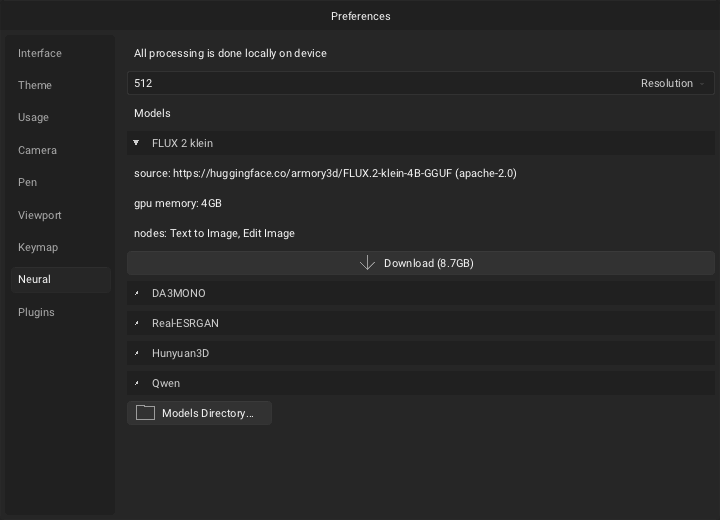
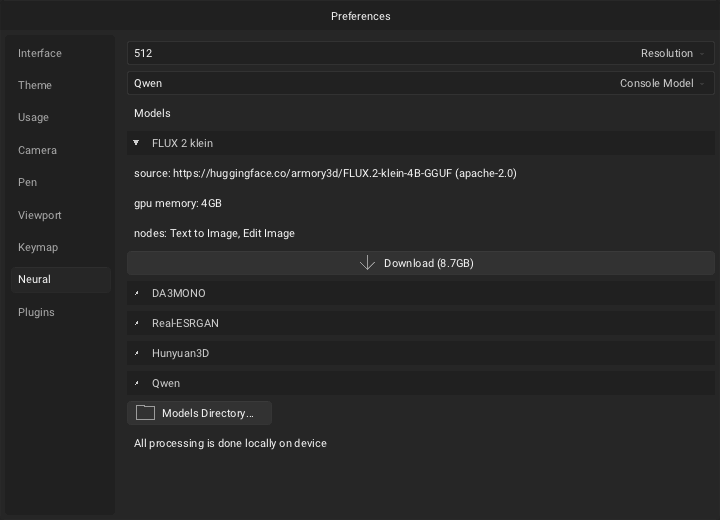
sync

diff --git a/manual.html b/manual.html
@@ -314,7 +314,7 @@
   <p>See <a href="https://armorpaint.org/manual#preferences">Preferences</a> to tune performance.</p>
 </blockquote>
 <h4 id="updating">Updating</h4>
-<p>Latest builds can be downloaded through your <a href="https://itch.io/my-purchases">Itch Library</a> or <a href="https://gumroad.com/library">Gumroad Library</a>. Learn more <a href="https://armorpaint.org/login">here</a>.</p>
+<p>Latest builds can be downloaded through your <a href="https://itch.io/my-purchases">Itch Library</a>. Learn more <a href="https://armorpaint.org/login">here</a>.</p>
 <blockquote>
   <p>In ArmorPaint, press <code>Help - Check for Updates...</code> to check if newer build is available.</p>
 </blockquote>
@@ -340,6 +340,7 @@
 <li>Controls can be customized in <code>Menu bar - Edit - Preferences... - Keymap</code>.</li>
 <li>Default or Blender keymap preset can be selected.</li>
 <li>Keymap presets can be imported and exported.</li>
+<li>Hold <code>shift</code> + <code>right mouse button</code> to rotate the camera horizontally.</li>
 </ul>
 <p><br/><br/><br/><br/><br/></p>
 <h1 id="basics">Basics</h1>
@@ -349,13 +350,16 @@
 <p>In the <code>Import Mesh</code> dialog:</p>
 <ul>
 <li>Set <code>Split By</code> combo to <code>UDIM Tile</code> to parse imported <code>.obj</code> mesh into UDIM tiles.</li>
+<li>Set <code>Split By</code> combo to <code>Material</code> to create separate mesh for each material in the <code>.obj</code> file.</li>
 <li>Enable <code>Apply Skinning</code> to load and apply animation frame from <code>.fbx</code> or <code>.glb</code> file.</li>
+<li>Press <code>&gt; - Append</code> button to keep the existing meshes in the project intact.</li>
 </ul>
 <p>Modifying imported mesh data:</p>
 <ul>
 <li>Normals can be re-calculated with <code>Meshes tab - Edit - Calculate Normals</code>.</li>
 <li>Up axis can be set with <code>Meshes tab - Edit - Rotate</code>.</li>
 <li>Geometry can be re-centered with <code>Meshes tab - Edit - Geometry to Origin</code>.</li>
+<li>All meshes can be merged into a single one with <code>Meshes tab - Edit - Merge Geometry</code>.</li>
 <li>Height output can be applied to geometry with <code>Meshes tab - Edit - Apply Displacement</code>.</li>
 <li>UV map can be auto-generated with <code>Meshes tab - Edit - UV Unwrap</code>.</li>
 <li>Keep in mind that if you modify UV map of the imported mesh, you will have to also <a href="https://armorpaint.org/manual#export-mesh">export the modified mesh</a> back out of ArmorPaint alongside the painted textures so they can be UV mapped properly.</li>
@@ -423,7 +427,8 @@
 <ul>
 <li>Click on the <code>Cloud</code> button to access the <a href="https://armorpaint.org/cloud">ArmorPaint cloud</a>.</li>
 <li>Drag assets from browser into the viewport to import.</li>
-<li>For <code>.arm</code> materials, preview icons are displayed.</li>
+<li>For <code>.arm</code> files - right click and press the <code>Append</code> button to select which meshes and materials to import.</li>
+<li>For <code>.arm</code> materials - preview icons are displayed.</li>
 <li>Click on the <code>+</code> button to save the current path into bookmarks panel.</li>
 <li>Press <code>ctrl+f</code> keys to activate search in the current folder.</li>
 <li>Use arrow keys, enter / backspace to navigate.
@@ -508,6 +513,7 @@
 <li><code>Blending</code>: Blending mode used for painting.</li>
 <li><code>X-Ray</code>: Paint through mesh faces.</li>
 <li><code>Symmetry</code>: Mirror brush strokes on the X, Y and/or Z axis.</li>
+<li><code>Set Source</code> button: Set clone source location without holding the <code>ALT</code> key.</li>
 </ul>
 <h4 id="blur">Blur</h4>
 <p><img src="img/manual/tool_blur.png" alt="" /></p>
@@ -554,6 +560,9 @@
 <h4 id="cursor">Cursor</h4>
 <p><img src="img/manual/tool_cursor.png" alt="" /></p>
 <p>Select <code>Cursor</code>(<code>r</code>) tool from toolbar. A gizmo will appear in the viewport allowing you to adjust the transform of objects in the scene. Location, rotation and scale will be displayed in the header.</p>
+<ul>
+<li>Hold <code>x</code> (<code>grid_snap</code>) key to snap gizmo movement and rotation to steps.</li>
+</ul>
 <h4 id="select">Select</h4>
 <p><img src="img/manual/tool_select.png" alt="" /></p>
 <p>Select <code>Select</code>(<code>m</code>) tool from toolbar. Press <code>left mouse button</code> / <code>pen</code> to draw a rectangular mask in the viewport. The painting operations will now be restricted to this area. Press <code>Clear</code> button to discard the mask.</p>
@@ -622,6 +631,11 @@
 <p><img src="img/manual/neural/001.png" alt="" /></p>
 <p>To preview the material, create a new project and select the highly tessellated <code>plane_2048</code> or <code>sphere_2048</code> template. Fill the material onto the layer and press <code>Meshes tab - Edit - Apply Displacement</code> to apply height channel onto the mesh.</p>
 <p><img src="img/manual/neural/002.jpg" alt="" /></p>
+<h4 id="consolemodel">Console Model</h4>
+<p>Navigate to the <code>Menu bar - Edit - Preferences... - Neural</code> tab and pick the desired <code>console model</code>. By default, <code>Qwen</code> model will be selected which needs to be downloaded via <code>Models - Qwen</code> section. In this case the console prompt will be processed locally. If your machine does not have enough memory, you can change the <code>console model</code> to claude, grok or codex. Note that in this case processing will be done in the cloud and you need to have access to these models set up on your computer.</p>
+<blockquote>
+  <p>See <a href="https://armorpaint.org/manual#scripting">Console Prompt</a>.</p>
+</blockquote>
 <p><br/><br/><br/><br/><br/></p>
 <h1 id="brushes">Brushes</h1>
 <p><img src="img/manual/k.jpg" alt="" /></p>
@@ -721,6 +735,12 @@
 <li><code>Apply</code> mask to parent layer.</li>
 <li><code>Delete</code> the mask.</li>
 <li><code>Invert</code> the mask.</li>
+</ul>
+<p>For path layers:</p>
+<ul>
+<li>Press <code>left</code> mouse button onto a mesh to add a new control point.</li>
+<li>Press and hold <code>left</code> mouse button to drag a control point.</li>
+<li>Press <code>delete</code> key to remove the last selected control point.</li>
 </ul>
 <blockquote>
   <p>Drag textures from <code>Textures tab</code> into the viewport or <code>Layers</code> tab to create mask for active layer.</p>
@@ -864,7 +884,8 @@
 <p><em>work-in-progress</em></p>
 <p><br/><br/><br/><br/><br/></p>
 <h1 id="scripting">Scripting</h1>
-<p><img src="img/manual/h.jpg" alt="" /></p>
+<p><img src="img/manual/script.jpg" alt="" /></p>
+<h4 id="plugins">Plugins</h4>
 <p>Press <code>Plugins tab - Manager</code> to open the plugin manager.</p>
 <ul>
 <li>Click <code>Import</code> to install a new plugin from <code>.c</code> or <code>.zip</code> file.</li>
@@ -877,6 +898,17 @@
 <li>Controls for enabled plugins are displayed in the <code>Plugins tab</code>.</li>
 <li>Some plugins may not expose controls but add new import / export file formats.</li>
 </ul>
+<h4 id="scriptstab">Scripts Tab</h4>
+<p>Scripts tab allows you to edit and run scripts directly in ArmorPaint. It supports basic code editing, mini map display and syntax coloring.</p>
+<ul>
+<li>Press <code>ctrl + f</code> to search.</li>
+<li>Press <code>ctrl + space</code> to open auto-complete.</li>
+</ul>
+<h4 id="consoleprompt">Console Prompt</h4>
+<p>Once <code>console model</code> is set up, navigate to the <code>Console</code> tab, enter the text prompt and click the <code>Run</code> button. Once done, a script will be generated in the <code>Scripts</code> tab. You can inspect the script and press the <code>Run</code> button to execute it.</p>
+<blockquote>
+  <p>See <a href="https://armorpaint.org/manual#neural-nodes">Console Model</a> setup.</p>
+</blockquote>
 <h4 id="livelink">Live-Link</h4>
 <p>Live-link plugins are currently in development:</p>
 <ul>
@@ -895,6 +927,23 @@
 </ul>
 <p><br/><a href="img/manual/skin.jpg" target="_blank"><img src="img/manual/skin.jpg" width="300px"/></a>
 <br/><i>skinned mesh</i></p>
+<h4 id="commandlineterminal">Command line / terminal</h4>
+<p>Control ArmorPaint via the command line arguments.</p>
+<pre><code>Usage: armorpaint [options] [file]
+Options:
+  --background                      Run without displaying the window
+  --export-textures &lt;type&gt; &lt;preset&gt; &lt;path&gt;
+                                    Export textures to path
+                                    type: png, jpg, exr16, exr32
+  --export-mesh &lt;path&gt;              Export mesh to path
+  --export-material &lt;path&gt;          Export material to path
+  --reload-mesh                     Reimport mesh on startup
+  --script &lt;path&gt;                   Run script on the opened project
+  --api                             Print the scripting API reference
+                                    Contents of the opened project are included
+  --player                          Run in player mode
+  --help                            Show this help message
+</code></pre>
 <p><br/><br/><br/><br/><br/></p>
 <h1 id="preferences">Preferences</h1>
 <p><img src="img/manual/g.jpg" alt="" /></p>
@@ -970,13 +1019,15 @@
 </ul>
 <p>On slower GPUs:</p>
 <ul>
-<li>Disable <code>SSAO (screen-space ambient occlusion)</code> for improved performance.</li>
+<li>Set <code>SSAO (screen-space ambient occlusion)</code> to <code>0.0</code> to fully disable it for improved performance.</li>
 </ul>
 <p>Additional options:</p>
 <ul>
-<li>Set <code>Path Tracer</code> mode: <code>Fast</code> for performance, <code>Full</code> for features. (raytracing GPUs)</li>
+<li>Set <code>Path Tracer</code> mode: <code>Fast</code> for performance, <code>Quality</code> for features. (emission, translucency)(raytracing GPUs)</li>
+<li>Set <code>Multi</code> variant in <code>Path Tracer</code> mode combo: this allows  the path tracer to render up to 1024 instances of 64 unique objects.</li>
+<li>Set <code>Path Trace Frames</code>: the number of frames to accumulate samples.</li>
 <li>Set clipping values with <code>Clip Start</code> and <code>Clip End</code>.</li>
-<li>Enable <code>Bloom</code>.</li>
+<li>Set <code>Bloom</code> strenght, <code>0.0</code> to fully disable.</li>
 <li>Set <code>Vignette</code> intensity.</li>
 <li>Set <code>Noise Grain</code> intensity.</li>
 <li>Set <code>Displacement Strength</code> applied by height channel in the viewport.</li>

diff --git a/manual.md b/manual.md
@@ -22,7 +22,7 @@ Painting process in ArmorPaint runs on the GPU and the performance mainly depend
 
 #### Updating
 
-Latest builds can be downloaded through your [Itch Library](https://itch.io/my-purchases) or [Gumroad Library](https://gumroad.com/library). Learn more [here](https://armorpaint.org/login).
+Latest builds can be downloaded through your [Itch Library](https://itch.io/my-purchases). Learn more [here](https://armorpaint.org/login).
 
 > In ArmorPaint, press `Help - Check for Updates...` to check if newer build is available.
 
@@ -65,6 +65,7 @@ Unpack downloaded archive and run `ArmorPaint.app`.
 - Controls can be customized in `Menu bar - Edit - Preferences... - Keymap`.
 - Default or Blender keymap preset can be selected.
 - Keymap presets can be imported and exported.
+- Hold `shift` + `right mouse button` to rotate the camera horizontally.
 
 <br/><br/><br/><br/><br/>
 
@@ -82,12 +83,15 @@ Drag and drop unwrapped `.obj` file into the viewport. This will replace the cur
 
 In the `Import Mesh` dialog:
 - Set `Split By` combo to `UDIM Tile` to parse imported `.obj` mesh into UDIM tiles.
+- Set `Split By` combo to `Material` to create separate mesh for each material in the `.obj` file.
 - Enable `Apply Skinning` to load and apply animation frame from `.fbx` or `.glb` file.
+- Press `> - Append` button to keep the existing meshes in the project intact.
 
 Modifying imported mesh data:
 - Normals can be re-calculated with `Meshes tab - Edit - Calculate Normals`.
 - Up axis can be set with `Meshes tab - Edit - Rotate`.
 - Geometry can be re-centered with `Meshes tab - Edit - Geometry to Origin`.
+- All meshes can be merged into a single one with `Meshes tab - Edit - Merge Geometry`.
 - Height output can be applied to geometry with `Meshes tab - Edit - Apply Displacement`.
 - UV map can be auto-generated with `Meshes tab - Edit - UV Unwrap`.
 - Keep in mind that if you modify UV map of the imported mesh, you will have to also [export the modified mesh](https://armorpaint.org/manual#export-mesh) back out of ArmorPaint alongside the painted textures so they can be UV mapped properly.
@@ -166,7 +170,8 @@ If the mesh file was modified after it was already imported in ArmorPaint, you c
 Click on the `Status bar - Browser tab` to activate the built-in asset browser.
 - Click on the `Cloud` button to access the [ArmorPaint cloud](https://armorpaint.org/cloud).
 - Drag assets from browser into the viewport to import.
-- For `.arm` materials, preview icons are displayed.
+- For `.arm` files - right click and press the `Append` button to select which meshes and materials to import.
+- For `.arm` materials - preview icons are displayed.
 - Click on the `+` button to save the current path into bookmarks panel.
 - Press `ctrl+f` keys to activate search in the current folder.
 - Use arrow keys, enter / backspace to navigate.
@@ -271,6 +276,7 @@ Select `Clone`(`L`) tool from toolbar. Hold `ALT` to set clone source location. 
 - `Blending`: Blending mode used for painting.
 - `X-Ray`: Paint through mesh faces.
 - `Symmetry`: Mirror brush strokes on the X, Y and/or Z axis.
+- `Set Source` button: Set clone source location without holding the `ALT` key.
 
 #### Blur
 
@@ -330,6 +336,8 @@ Select `Material` tool from toolbar. A live material preview will be displayed i
 ![](img/manual/tool_cursor.png)
 
 Select `Cursor`(`r`) tool from toolbar. A gizmo will appear in the viewport allowing you to adjust the transform of objects in the scene. Location, rotation and scale will be displayed in the header.
+
+- Hold `x` (`grid_snap`) key to snap gizmo movement and rotation to steps.
 
 #### Select
 
@@ -450,6 +458,12 @@ To preview the material, create a new project and select the highly tessellated 
 
 ![](img/manual/neural/002.jpg)
 
+#### Console Model
+
+Navigate to the `Menu bar - Edit - Preferences... - Neural` tab and pick the desired `console model`. By default, `Qwen` model will be selected which needs to be downloaded via `Models - Qwen` section. In this case the console prompt will be processed locally. If your machine does not have enough memory, you can change the `console model` to claude, grok or codex. Note that in this case processing will be done in the cloud and you need to have access to these models set up on your computer.
+
+> See [Console Prompt](https://armorpaint.org/manual#scripting).
+
 <br/><br/><br/><br/><br/>
 
 
@@ -561,6 +575,12 @@ Right-click on the mask to expose mask operations:
 - `Apply` mask to parent layer.
 - `Delete` the mask.
 - `Invert` the mask.
+
+For path layers:
+
+- Press `left` mouse button onto a mesh to add a new control point.
+- Press and hold `left` mouse button to drag a control point.
+- Press `delete` key to remove the last selected control point.
 
 > Drag textures from `Textures tab` into the viewport or `Layers` tab to create mask for active layer.
 
@@ -773,7 +793,9 @@ Press `Menu bar - Workspace - Workflow - Sculpt` to enter sculpt mode.
 
 # Scripting
 
-![](img/manual/h.jpg)
+![](img/manual/script.jpg)
+
+#### Plugins
 
 Press `Plugins tab - Manager` to open the plugin manager.
 
@@ -786,6 +808,19 @@ Press `Plugins tab - Manager` to open the plugin manager.
   - `Delete` plugin.
 - Controls for enabled plugins are displayed in the `Plugins tab`.
 - Some plugins may not expose controls but add new import / export file formats.
+
+#### Scripts Tab
+
+Scripts tab allows you to edit and run scripts directly in ArmorPaint. It supports basic code editing, mini map display and syntax coloring.
+
+- Press `ctrl + f` to search.
+- Press `ctrl + space` to open auto-complete.
+
+#### Console Prompt
+
+Once `console model` is set up, navigate to the `Console` tab, enter the text prompt and click the `Run` button. Once done, a script will be generated in the `Scripts` tab. You can inspect the script and press the `Run` button to execute it.
+
+> See [Console Model](https://armorpaint.org/manual#neural-nodes) setup.
 
 #### Live-Link
 
@@ -807,6 +842,28 @@ In the timeline tab you can:
 
 <br/><a href="img/manual/skin.jpg" target="_blank"><img src="img/manual/skin.jpg" width="300px"/></a>
 <br/><i>skinned mesh</i>
+
+#### Command line / terminal
+
+Control ArmorPaint via the command line arguments.
+
+```
+Usage: armorpaint [options] [file]
+Options:
+  --background                      Run without displaying the window
+  --export-textures <type> <preset> <path>
+                                    Export textures to path
+                                    type: png, jpg, exr16, exr32
+  --export-mesh <path>              Export mesh to path
+  --export-material <path>          Export material to path
+  --reload-mesh                     Reimport mesh on startup
+  --script <path>                   Run script on the opened project
+  --api                             Print the scripting API reference
+                                    Contents of the opened project are included
+  --player                          Run in player mode
+  --help                            Show this help message
+
+```
 
 <br/><br/><br/><br/><br/>
 
@@ -895,12 +952,14 @@ On faster GPUs:
 - Raise `Super Sample` to 2X/4X for improved anti-aliasing.
 
 On slower GPUs:
-- Disable `SSAO (screen-space ambient occlusion)` for improved performance.
+- Set `SSAO (screen-space ambient occlusion)` to `0.0` to fully disable it for improved performance.
 
 Additional options:
-- Set `Path Tracer` mode: `Fast` for performance, `Full` for features. (raytracing GPUs)
+- Set `Path Tracer` mode: `Fast` for performance, `Quality` for features. (emission, translucency)(raytracing GPUs)
+- Set `Multi` variant in `Path Tracer` mode combo: this allows  the path tracer to render up to 1024 instances of 64 unique objects.
+- Set `Path Trace Frames`: the number of frames to accumulate samples.
 - Set clipping values with `Clip Start` and `Clip End`.
-- Enable `Bloom`.
+- Set `Bloom` strenght, `0.0` to fully disable.
 - Set `Vignette` intensity.
 - Set `Noise Grain` intensity.
 - Set `Displacement Strength` applied by height channel in the viewport.
